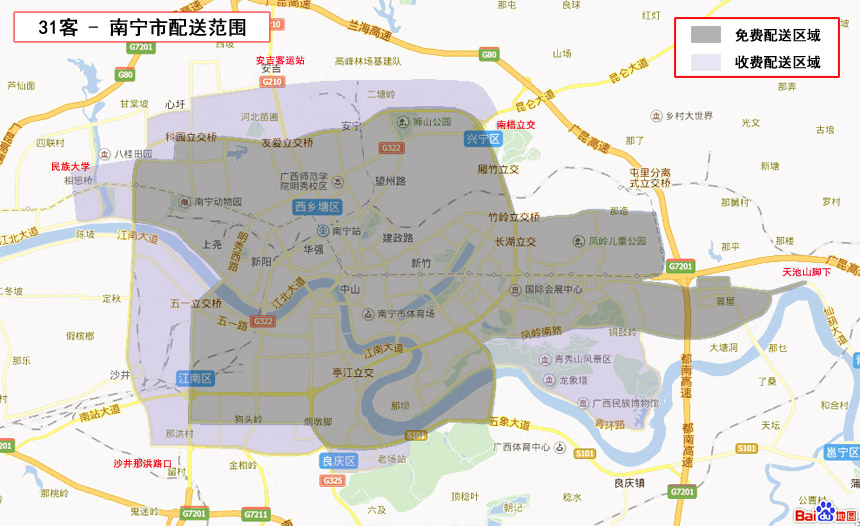
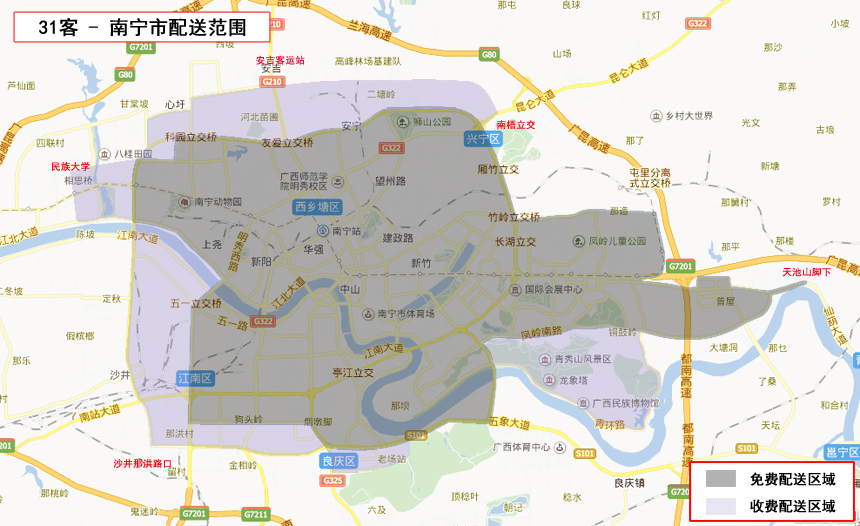
修正  - 前台会员注册所需字段  - 前台购物车模板

Changed region(s): [[0.786, 0.8517, 0.9977, 1.0], [0.786, 0.0304, 0.9977, 0.1521]]

diff --git a/cart/templates/consignee.htm b/cart/templates/consignee.htm
@@ -53,7 +53,9 @@
     <strong>小提示：</strong>
     <p>蓝圈内为免费配送范围，超出免费配送范围须加收10元，收费配送范围为红圈以内蓝圈以外。</p>
     <p>&nbsp;</p>
-    <img src="{{ STATIC_URL }}images/delivery_areas.jpg" />
+    <img src="{{ STATIC_URL }}images/nn.jpg" />
+    <p>&nbsp;</p>
+    <img src="{{ STATIC_URL }}images/cs.jpg" />
     <p>&nbsp;</p>
 {% endblock %}
 

diff --git a/account/templates/login.htm b/account/templates/login.htm
@@ -39,6 +39,12 @@
                     <td>{{ i }}</td>
                 </tr>
 {% endfor %}
+{% for i in bthFrm %}
+                <tr>
+                    <td align="right">生{{ i.label }}：</td>
+                    <td>{{ i }}</td>
+                </tr>
+{% endfor %}
                 <tr>
                     <td align="right"></td>
                     <td>

diff --git a/account/views.py b/account/views.py
@@ -10,7 +10,7 @@ from django.template import RequestContext
 from django.db.models import Q
 from new31.func import rdrtBck
 from new31.decorator import postDr
-from forms import QuicklyNewUserFrm
+from forms import QuicklyNewUserFrm, _BsInfoFrm
 from decorator import uInfoDr, checkUserDr, userLogDr, checkOrdByUserDr
 import re
 # Create your views here.
@@ -21,6 +21,7 @@ def login(request):
     if not request.user.is_authenticated():
         if request.method == 'GET':
             nfrm = UserCreationForm()
+            bthFrm = _BsInfoFrm()
             frm = AuthenticationForm(request)
             next = request.GET.get('next', 'account:myOrd')
 
@@ -51,26 +52,32 @@ def quicklyREG(request):
     u"""快速注册"""
     from models import BsInfo, Pts
     form = QuicklyNewUserFrm(request.POST)
-    if form.is_valid():
+    _form = _BsInfoFrm(request.POST)
+    if form.is_valid() and _form.is_valid():
         new_user = form.save()
 
         b = BsInfo()
         b.user = new_user
+        b.mon = request.POST.get('mon')
+        b.day = request.POST.get('day')
         b.save()
 
         p = Pts()
         p.user = new_user
         p.save()
 
-
-
         messages.success(request, u'注册成功')
 
         return login(request)
     else:
-        for i in form:
-            if i.errors:
-                messages.error(request, u'%s - %s' % (i.label, i.errors))
+        def f(_f):
+            for i in _f:
+                if i.errors:
+                    messages.error(request, u'%s - %s' % (i.label, i.errors))
+
+        f(form)
+        f(_form)
+
         return redirect('account:login')
 
 def logout(request):

diff --git a/account/forms.py b/account/forms.py
@@ -13,18 +13,49 @@ def bsInfoFrm(request):
             })
 
 
+class _BsInfoFrm(forms.ModelForm):
+
+    class Meta:
+        from models import BsInfo
+
+        model = BsInfo
+        fields = ('mon', 'day',)
+        widgets = {
+            'mon': forms.Select(choices=BsInfo.mons, attrs={'class': 'mon' }),
+            'day': forms.Select(choices=BsInfo.days, attrs={'class': 'day' }),
+        }
+
+    def clean_mon(self):
+        mon = self.cleaned_data['mon']
+
+        print '=' * 20
+        print mon
+
+        if not mon:
+            raise forms.ValidationError(u'请填写正确的生月!')
+
+        return mon
+
+    def clean_day(self):
+        day = self.cleaned_data['day']
+
+        if not day:
+            raise forms.ValidationError(u'请填写正确的生日!')
+
+        return day
+
 class BsInfoFrm(forms.ModelForm):
 
     class Meta:
         from models import BsInfo
 
         model = BsInfo
-        fields = ('sex', 'mon', 'day', 'typ',)
+        fields = ('sex', 'typ', 'mon', 'day',)
         widgets = {
             'sex': forms.Select(choices=BsInfo.sexs, attrs={'class': 'sex' }),
+            'typ': forms.Select(choices=BsInfo.typs, attrs={'class': 'typ' }),
             'mon': forms.Select(choices=BsInfo.mons, attrs={'class': 'mon' }),
             'day': forms.Select(choices=BsInfo.days, attrs={'class': 'day' }),
-            'typ': forms.Select(choices=BsInfo.typs, attrs={'class': 'typ' }),
         }
 
 class PtsFrm(forms.ModelForm):

diff --git a/inventory/views.py b/inventory/views.py
@@ -68,6 +68,11 @@ def sort(pro):
 
     # }]
 
+    # for b in build:
+    #     for i in pro:
+
+
+
     for i in pro:
         # name = i.spec.item.name
         # if not hasattr(_pro, name):
